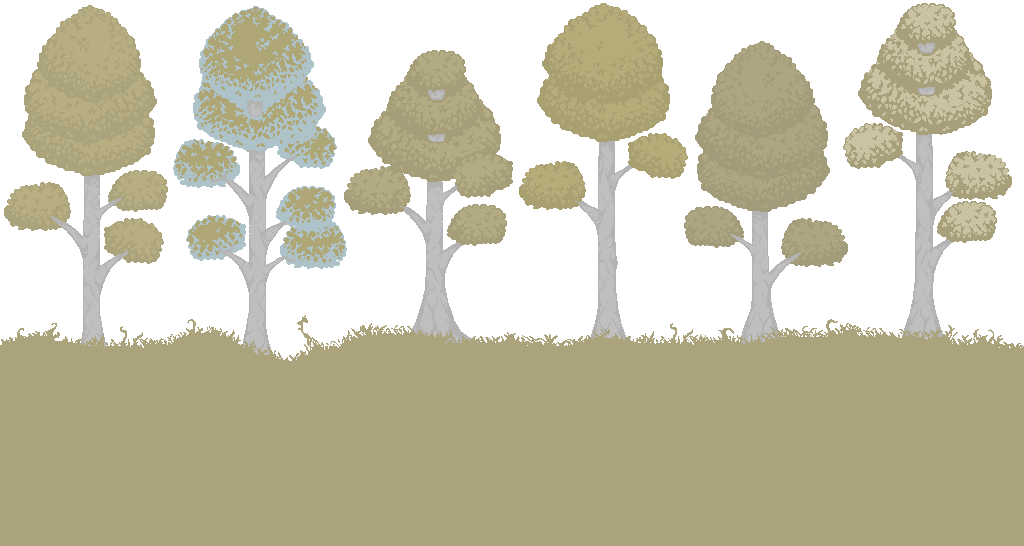
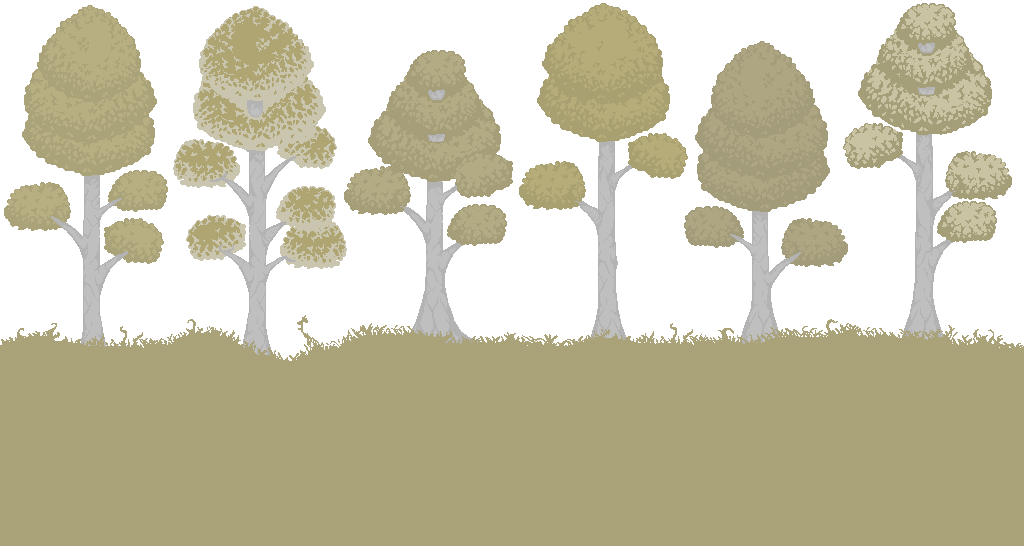
underground, desert, ice mapbg's

Changed region(s): [[0.1562, 0.0311, 0.3438, 0.3425], [0.1875, 0.3425, 0.3438, 0.4982]]

diff --git a/recolor_backgrounds.py b/recolor_backgrounds.py
@@ -344,6 +344,90 @@ def recolor_cavern1(image):
     result.putdata(new_pixels)
     return result
 
+def recolor_ice_mapbg(image):
+    """IceMapBackground: pinks/purples -> banana yellow"""
+    if image.mode != 'RGBA':
+        image = image.convert('RGBA')
+
+    pixels = list(image.getdata())
+    new_pixels = []
+
+    for r, g, b, a in pixels:
+        if a == 0:
+            new_pixels.append((r, g, b, a))
+            continue
+
+        h, l, s = colorsys.rgb_to_hls(r/255, g/255, b/255)
+
+        # Pinks/magentas/purples/violets (hue ~0.6-1.0 or 0.0-0.05) -> banana yellow
+        # Catches even dark purples
+        if h > 0.6 or h < 0.05:
+            h = 0.14  # Banana yellow
+
+        r2, g2, b2 = colorsys.hls_to_rgb(h, l, s)
+        new_pixels.append((int(r2*255), int(g2*255), int(b2*255), a))
+
+    result = Image.new('RGBA', image.size)
+    result.putdata(new_pixels)
+    return result
+
+def recolor_underground_mapbg(image):
+    """UndergroundMapBackground: pinks/purples -> banana yellow, blues -> baby blue"""
+    if image.mode != 'RGBA':
+        image = image.convert('RGBA')
+
+    pixels = list(image.getdata())
+    new_pixels = []
+
+    for r, g, b, a in pixels:
+        if a == 0:
+            new_pixels.append((r, g, b, a))
+            continue
+
+        h, l, s = colorsys.rgb_to_hls(r/255, g/255, b/255)
+
+        # Pinks/magentas/purples/violets (hue ~0.6-1.0 or 0.0-0.05) -> banana yellow
+        # Catches even dark purples
+        if h > 0.6 or h < 0.05:
+            h = 0.14  # Banana yellow
+        # Blues (hue ~0.5-0.6) -> lighter baby blue
+        elif 0.5 < h <= 0.6:
+            h = 0.55  # Sky/baby blue
+            l = min(1.0, l + 0.25)  # Brighten significantly
+
+        r2, g2, b2 = colorsys.hls_to_rgb(h, l, s)
+        new_pixels.append((int(r2*255), int(g2*255), int(b2*255), a))
+
+    result = Image.new('RGBA', image.size)
+    result.putdata(new_pixels)
+    return result
+
+def recolor_desert_mapbg(image):
+    """DesertMapBackground: cyans (not blues) -> bright yellow"""
+    if image.mode != 'RGBA':
+        image = image.convert('RGBA')
+
+    pixels = list(image.getdata())
+    new_pixels = []
+
+    for r, g, b, a in pixels:
+        if a == 0:
+            new_pixels.append((r, g, b, a))
+            continue
+
+        h, l, s = colorsys.rgb_to_hls(r/255, g/255, b/255)
+
+        # Cyans (hue ~0.45-0.55) -> bright yellow, leave blues (0.55-0.7) alone
+        if 0.42 < h < 0.55:
+            h = 0.14  # Bright yellow
+
+        r2, g2, b2 = colorsys.hls_to_rgb(h, l, s)
+        new_pixels.append((int(r2*255), int(g2*255), int(b2*255), a))
+
+    result = Image.new('RGBA', image.size)
+    result.putdata(new_pixels)
+    return result
+
 def main():
     bg_dir = os.path.join(os.path.dirname(os.path.abspath(__file__)),
                           "Content", "Biomes", "Backgrounds")
@@ -534,6 +618,43 @@ def main():
         print("  Done!")
     else:
         print(f"  WARNING: {ug295_path} not found")
+
+    # Map backgrounds are in Content/Biomes (parent folder)
+    mapbg_dir = os.path.join(os.path.dirname(os.path.abspath(__file__)),
+                              "Content", "Biomes")
+
+    # Process IceMapBackground
+    ice_mapbg = os.path.join(mapbg_dir, "RaptureIceMapBackground.png")
+    if os.path.exists(ice_mapbg):
+        print(f"Processing RaptureIceMapBackground.png...")
+        img = Image.open(ice_mapbg)
+        recolored = recolor_ice_mapbg(img)
+        recolored.save(ice_mapbg)
+        print("  Done!")
+    else:
+        print(f"  WARNING: {ice_mapbg} not found")
+
+    # Process UndergroundMapBackground
+    ug_mapbg = os.path.join(mapbg_dir, "RaptureUndergroundMapBackground.png")
+    if os.path.exists(ug_mapbg):
+        print(f"Processing RaptureUndergroundMapBackground.png...")
+        img = Image.open(ug_mapbg)
+        recolored = recolor_underground_mapbg(img)
+        recolored.save(ug_mapbg)
+        print("  Done!")
+    else:
+        print(f"  WARNING: {ug_mapbg} not found")
+
+    # Process DesertMapBackground
+    desert_mapbg = os.path.join(mapbg_dir, "RaptureDesertMapBackground.png")
+    if os.path.exists(desert_mapbg):
+        print(f"Processing RaptureDesertMapBackground.png...")
+        img = Image.open(desert_mapbg)
+        recolored = recolor_desert_mapbg(img)
+        recolored.save(desert_mapbg)
+        print("  Done!")
+    else:
+        print(f"  WARNING: {desert_mapbg} not found")
 
     print("\nComplete!")
 
